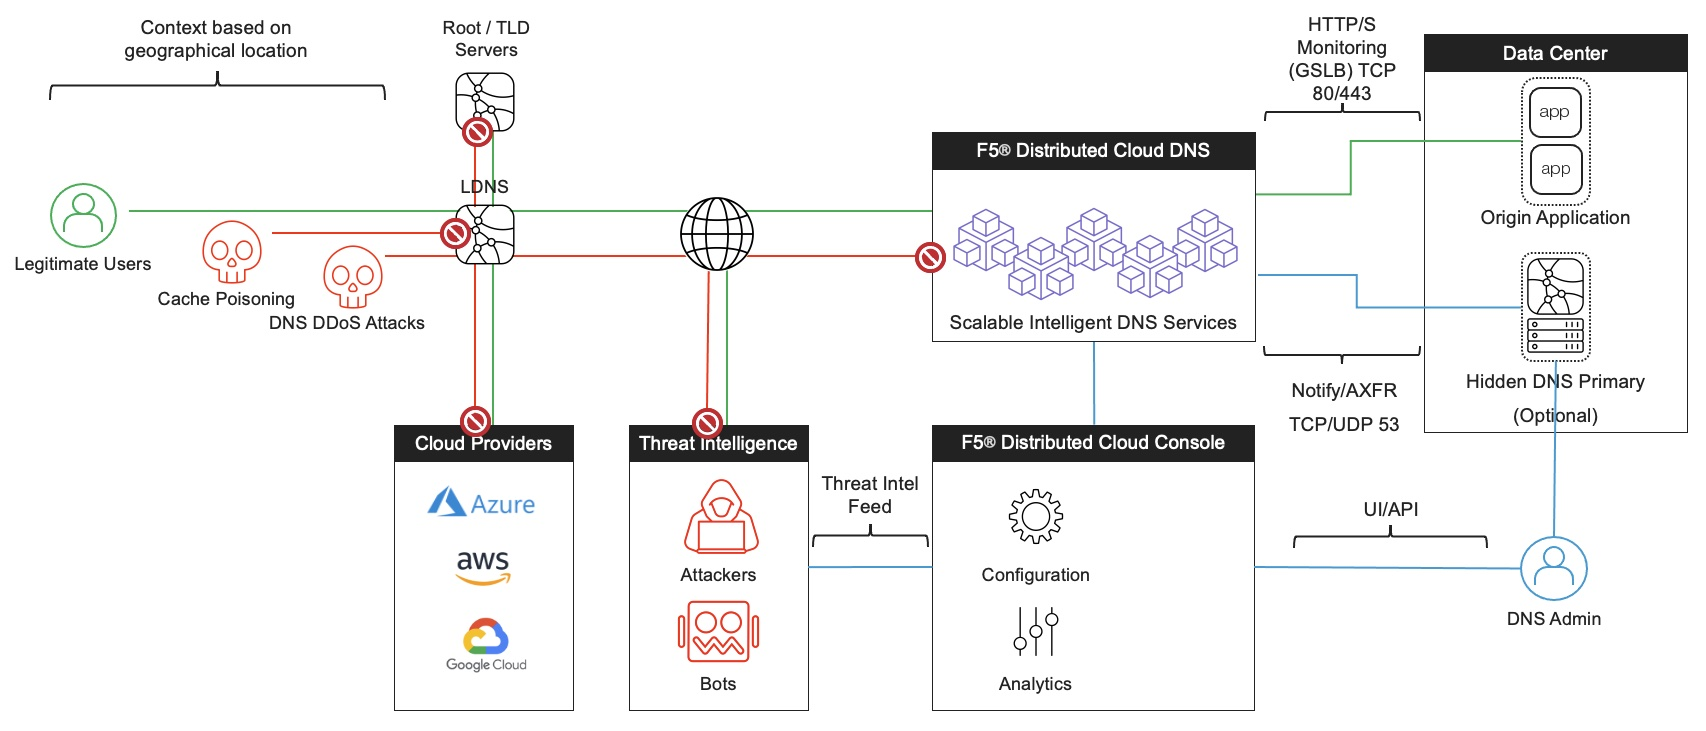
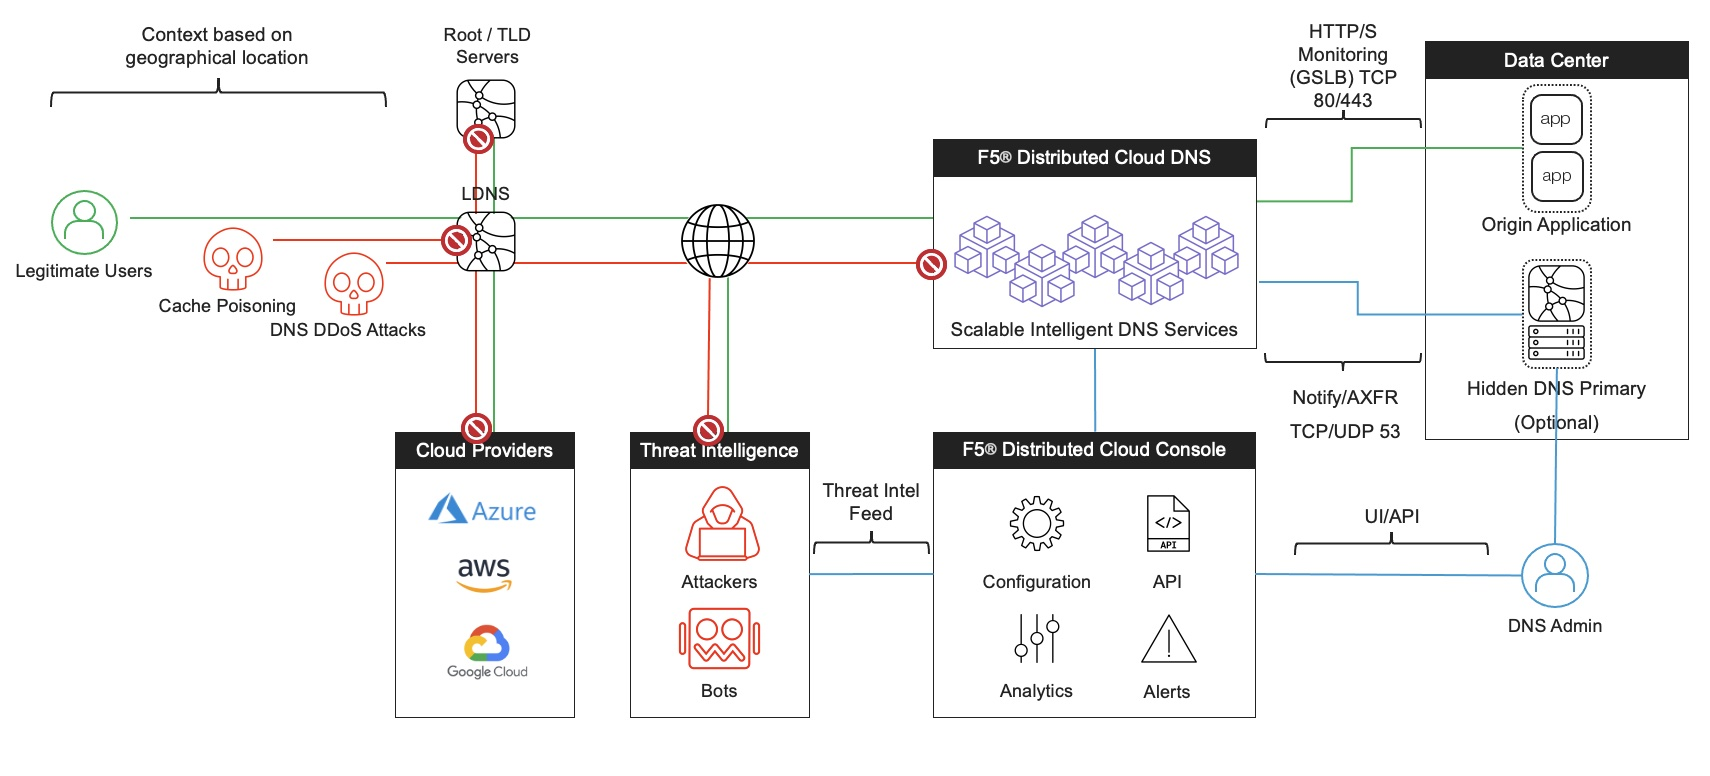
updated diagram and components

diff --git a/dns/readme.md b/dns/readme.md
@@ -33,7 +33,7 @@ This reference architecture provides guidelines for designing and implementing a
 ## DNS Services Are Critical to Availability
 When a user requests a web page, that request is passed to a local DNS server, which in turn communicates with the main DNS servers (DNS Root Server, Top-Level Domain Servers, Second-Level Domain Servers and so on). Everything works well until a traffic surge or an attacker floods the server with DNS query requests. If your main DNS server gets overloaded, it will stop responding, which can render your website unavailable.
 
-DNS failures account for 41 percent of web infrastructure downtime, so it's essential to keep your DNS available. According Gartner [^1] , organizations lose between $140,000 and $540,000 for every hour their services are down. Downtime negatively affects customers, can lead to loss of revenue, and can even affect employees trying to access corporate resources, such as email.
+DNS failures account for 41 percent of web infrastructure downtime, so it's essential to keep your DNS available. According Gartner [^1] , organisations lose between $140,000 and $540,000 for every hour their services are down. Downtime negatively affects customers, can lead to loss of revenue, and can even affect employees trying to access corporate resources, such as email.
 
 That's why the importance of a strong DNS foundation can’t be overstated. Without one, your customers may not be able to access your content and applications when they want to—and if they can't get what they want from you, they'll likely go elsewhere.
 
@@ -49,7 +49,7 @@ In addition, according to Google, 53 percent of visits to a mobile web sites are
 
 [^4]: https://www.thinkwithgoogle.com/consumer-insights/consumer-trends/mobile-site-load-time-statistics/ 
 
-Organizations are experiencing rapid growth in terms of applications as well as the volume of traffic accessing those applications. Plus, the web applications themselves are growing and continually becoming more complex. Every icon, URL, and piece of embedded content on a web page requires a DNS lookup. Simple smartphone apps can require numerous DNS queries just to load, but loading complex sites may require hundreds of DNS queries.
+Organisations are experiencing rapid growth in terms of applications as well as the volume of traffic accessing those applications. Plus, the web applications themselves are growing and continually becoming more complex. Every icon, URL, and piece of embedded content on a web page requires a DNS lookup. Simple smartphone apps can require numerous DNS queries just to load, but loading complex sites may require hundreds of DNS queries.
 
 
 ## Security Issues
@@ -60,7 +60,7 @@ A typical DNS server is capable of handling up to 150,000 DNS queries per second
 To address DNS surges and DNS DDoS attacks, companies add more DNS servers, which are not really needed during normal business operations. This costly solution also often requires manual intervention for changes. In addition, traditional DNS servers require frequent maintenance and patching, primarily for new vulnerabilities.
 
 ## The Traditional Solution
-When looking for DNS solutions, many organizations select BIND (Berkeley Internet Naming Daemon), the Internet's original DNS resolver. Installed on approximately 80 percent of the world's DNS servers, BIND is an open-source project maintained by Internet Systems Consortium (ISC). ISC is a non-profit organization with a for-profit consulting arm called DNS-CO, which offers 4 different levels of subscriptions and support services.
+When looking for DNS solutions, many organisations select BIND (Berkeley Internet Naming Daemon), the Internet's original DNS resolver. Installed on approximately 80 percent of the world's DNS servers, BIND is an open-source project maintained by Internet Systems Consortium (ISC). ISC is a non-profit organisation with a for-profit consulting arm called DNS-CO, which offers 4 different levels of subscriptions and support services.
 
 Despite its popularity, BIND requires significant maintenance multiple times a year primarily due to vulnerabilities, patches, and upgrades. It can be downloaded freely, but needs servers (an additional cost, including support contracts) and an operating system. In addition, BIND typically scales to only 50,000 responses per second (RPS), making it vulnerable to both legitimate and malicious DNS surges.
 
@@ -93,79 +93,100 @@ The DNS infrastructure consists of the following main components:
     - A stealth server that is a primary server for zone transfers. In this arrangement, the master name server that processes the updates is unavailable to general hosts on the Internet; it is not listed in the NS RRset[^6].  
 - Origin Applications
     - The endpoint[s] hosting the application identified by the FQDN.
-&nbsp;
-
-&nbsp;
 
 [^5]: '3.2.2. TYPE values' https://www.ietf.org/rfc/rfc1035.html
 [^6]: 'DNS Terminology' https://www.rfc-editor.org/rfc/rfc8499.html 
 
+<!-- Insert blank lines using &nbsp; followed by a blank line -->
 
-<!-- ![F5® Distributed Cloud DNS Referece Architecture Diagram](https://github.com/s-archer/reference-architectures/blob/main/dns/XC%20DNS%20Reference%20Architecture%20Diagrams.jpeg) -->
+&nbsp;
+
+&nbsp;
+
 ![F5® Distributed Cloud DNS Referece Architecture Diagram](XC%20DNS%20Reference%20Architecture%20Diagrams.jpeg)
 
 ## Scale on Demand
-F5® Distributed Cloud DNS hyperscales to 100 million RPS, which means that even large surges of DNS requests (including the malicious ones) won’t disrupt your content or affect the availability of critical applications. Your network administrators can rest easier, knowing that your site will respond to all DNS queries and remain available even during an attack. Your brand is protected, and your company can avoid an embarrassing front-page story.
+F5® Distributed Cloud DNS hyperscales to millions of RPS, which means that even large surges of DNS requests (including the malicious ones) won’t disrupt your content or affect the availability of critical applications. Your network administrators can rest easier, knowing that your site will respond to all DNS queries and remain available even during an attack. Your brand is protected, and your company can avoid an embarrassing front-page story.
 
 ## Enhanced Availability
-The F5® Intelligent DNS Scale reference architecture helps ensure that your applications and content are continuously available to your users. One of the most important pieces of this architecture is the specifically designed DNS Express query response feature in F5® Distributed Cloud DNS, which manages authoritative DNS queries by transferring zones from the primary DNS server to its own RAM.
+As a SaaS-based, cloud-delivered solution, Distributed Cloud DNS
+offers global auto-scaling, so you keep up with demand as the number of applications
+increases, traffic patterns change, and request volumes grow exponentially. Adjust DNS
+and security policies in real time and publish new apps with DNS instantaneously, all
+while paying only for what you use with no added overhead or costs.
 
-F5® Distributed Cloud DNS only has to open the DNS query packet once, as long as the request is for an address that’s in the zone that was transferred to DNS Express, simplifying the process and significantly improving performance and response times of your DNS architecture.
-
-With DNS Express, the individual core of each BIG-IP device can answer approximately 125,000 to 200,000 requests per second, scaling up to more than 50 million query RPS, greater than 12 times the capacity of a typical primary DNS server.
+F5® Distributed Cloud DNS helps ensure that your applications and content are continuously available to your users. Built-in redundancy makes your system available even with primary failures.
 
 ## DNS Security
-Each BIG-IP device is ICSA Labs Certified as a network firewall. By intelligently evaluating the reputation of Internet hosts, the BIG-IP device can prevent attackers from knocking your DNS offline with a DNS DDoS attack, stealing data, compromising corporate resources, or otherwise disrupting your business. 
+High-performance applications must be kept secure. That means ensuring
+not only uptime and availability but also protection from exploitation. With built-in
+DDoS protection, automatic failover, TSIG authentication, and DNSSEC capabilities,
+this service helps protect your applications from DDoS attacks and other threats.
 
-In addition, DNSSEC can protect your DNS infrastructure, including cloud deployments, from cache poisoning attacks and domain hijacks. With DNSSEC support, you can digitally sign and support your DNS query with encrypted responses, enabling the resolver to determine the authenticity of the response and preventing DNS hijacking and cache poisoning. The F5® IP Intelligence service enhances your overall security by denying access to IP addresses known to be infected with malware, in contact with malware distribution points, and with poor reputations.
+By intelligently evaluating the reputation of Internet hosts, F5® Distributed Cloud DNS can prevent attackers from knocking your DNS offline with a DNS DDoS attack, stealing data, compromising corporate resources, or otherwise disrupting your business. 
+
+In addition, DNSSEC can protect your DNS infrastructure, including cloud deployments, from cache poisoning attacks and domain hijacks. With DNSSEC support, you can digitally sign and support your DNS query with encrypted responses, enabling the resolver to determine the authenticity of the response and preventing DNS hijacking and cache poisoning. 
 
 ## DNS Services at the Edge
-The F5® Intelligent DNS Scale reference architecture also helps keep your content and applications available by responding to DNS queries from the edge of the network, rather than from deep within your critical infrastructure. When you offload DNS responses to the BIG-IP platform, requests don’t reach the back end of your network, which greatly increases your ability to scale and respond to DNS surges along with protecting your DNS infrastructure.
+F5® Distributed Cloud DNS helps keep your content and applications available by responding to DNS queries from the edge of the network, closer to your customers, and your employees,  rather than from deep within your critical infrastructure. When you offload DNS responses to F5® Distributed Cloud Platform, requests don’t reach the back end of your network, which greatly increases your ability to scale and respond to DNS surges along with protecting your DNS infrastructure.
 
-By increasing the speed, availability, scalability, and security of your DNS infrastructure, the F5® Intelligent DNS Scale reference architecture makes sure your customers, and your employees, can access your critical web, application, and database services whenever they need them.
+By increasing the speed, availability, scalability, and security of your DNS infrastructure, the F5® Distributed Cloud DNS makes sure your customers, and your employees, can access your critical web, application, and database services whenever they need them.
 
 ## Distributed DNS
-This also applies to cloud deployments or infrastructures where DNS is distributed. Organizations can replicate their high-performance DNS infrastructure in almost any environment. They may have cloud DNS for disaster recovery/business continuity, or even a cloud DNS service with signed DNSSEC zones. F5® DNS Services enhanced AXFR support offers zone transfers from a BIG-IP device to any DNS service, enabling organizations to replicate DNS in physical, virtual, and cloud environments. The DNS replication service can be sent to other BIG-IP devices or other general DNS servers in data centers or clouds that are closest to the users.
+Organisations can send users to a site that will give them the best experience. F5® Distributed Cloud DNS services use a range of load balancing methods and intelligent monitoring for each specific app and user. Traffic is routed according to your business policies, as well as current network and user conditions. F5® Distributed Cloud DNS services includes an accurate, granular geolocation database, giving you control of traffic distribution based on user location.
 
-In addition, organizations can send users to a site that will give them the best experience. F5® Distributed Cloud DNS services use a range of load balancing methods and intelligent monitoring for each specific app and user. Traffic is routed according to your business policies, as well as current network and user conditions. F5® Distributed Cloud DNS services includes an accurate, granular geolocation database, giving you control of traffic distribution based on user location.
-
+In addition, F5® Distributed Cloud DNS Services AXFR supports automatic zone transfers from any DNS service, enabling organisations to replicate DNS in physical, virtual, and cloud environments. 
 
 # F5® Distributed Cloud DNS Services
 F5® Distributed Cloud DNS is a global DNS solution, providing name services at the very edge of your service delivery and access networks. By employing geographic location services, it can direct users to the best service delivery data center based on their physical location.
 
 F5® Distributed Cloud DNS provides the following name services:
 
-DNS services at the edge of the network for all internal and external services.
-Geolocation services for pinpoint application or service delivery accuracy based on location of the mobile user.
-The IP Intelligence service safeguards infrastructures by detecting and stopping access from IP addresses associated with malicious activity.
-A single point of control for management of all global and local name services.
-Additional BIG-IP intelligent services solutions such as global application delivery, policy enforcement, NAT64 and DNS64 translation, health monitors, and the F5® scripting language, iRules.
-Support for global DNS services
-Integration with DNS iRules for granular DNS decisions and name service delivery.
-Support for service provider–specific protocols such as ENUM requests for SIP transactions.
-BIG-IP LTM and DNS Services
-Within the data center, BIG-IP Local Traffic Manager (LTM) can ensure that your applications and content remain highly available by creating a fault-tolerant architecture from the mobile edge through to the service. In addition to providing high availability, BIG-IP LTM also supports service provider–specific applications such as load balancing ENUM requests for SIP transactions.
+- DNS services at the edge of the network for all external services.
+- Geolocation services for pinpoint application or service delivery accuracy based on the location of the mobile user.
+- The Threat Intelligence service safeguards infrastructures by detecting and stopping access from IP addresses associated with malicious activity.
+- A single point of control for management of all global and local name services.
+- Support for global DNS services
 
-BIG-IP LTM solutions for naming services include:
-
-Integration with F5® Distributed Cloud DNS to extend rich naming services into the local data center and services network.
-Load balancing support for both local DNS and recursive DNS.
-Support for service provider–specific protocols such as ENUM requests for SIP transactions.
-Transparent health monitors to evaluate service health before sending users to the service. BIG-IP LTM can relay health information back to F5® Distributed Cloud DNS to bring application awareness to the edge of the SDN.
-Integration with iRules for granular DNS decisions and name service delivery.
 
 ## Deploying a Complete Service Delivery Infrastructure
-The F5® Intelligent DNS Scale reference architecture adjusts for high-availability and high-volume applications while simultaneously supporting millions of user requests per second. They work together with other BIG-IP service delivery features, such as the iRules scripting language, transparent application monitoring, , and other IP-related services to create a complete service delivery infrastructure: the F5® Service Delivery Network. Seamless scale and flexibility is achieved by leveraging the intelligent service delivery platform common to all BIG-IP devices.
+F5® Distributed Cloud DNS enables high-availability and high-volume applications while simultaneously supporting millions of user requests per second. It works seamlessly with the suite of F5® Distributed Cloud Application Delivery and Application Security SaaS services to create a complete application delivery infrastructure:
+
+- Security
+    - DDoS Mitigation
+    - Web Application Firewall (WAF)
+    - Bot Defense
+    - API Security
+    - WAAP (a combination of the four previous services)
+    - Application Infrastructure Protection (CWPP)
+    - Client-Side Defense
+    - Aggregator Management
+- Fraud and Risk
+    - Account Protection
+    - Authentication Intelligence
+- Multi-Cloud Networking
+    - Load-Balancer and K8s Gateway
+    - Multi-Cloud Transit
+    - Global Network
+    - Private Link
+- Performance and Reliability
+    - CDN 
+    - Observability
 
 ## Conclusion
-By using the F5® Intelligent DNS Scale reference architecture, organizations can:
+By using F5® Distributed Cloud DNS, organisations can:
 
-Increase the speed, availability, scalability, and security of their DNS infrastructure.
-Reduce complexity and cost by eliminating unnecessary additional DNS servers.
-Enjoy the peace of mind that comes with knowing their site will respond to all DNS requests.
-The F5® Intelligent DNS Scale reference architecture is an end-to-end DNS delivery solution that improves web performance by reducing DNS latency, protects your web properties and brand reputation by mitigating DNS DDoS attacks, reduces data center costs by consolidating DNS infrastructure.  Most importantly, it directs your customers to the best performing components for optimal application and service delivery.
+- Deploy and deliver primary DNS in minutes. Configure and provision primary and secondary DNS inminutes, powered by a cloudbased, globally distributed
+anycast network.
+- Accelerate release velocity.  Integrate DNS into CI/CD pipelines using REST-based declarative APIs.
+- Maintain high availability.  Redundancy keeps your system available even with primary failures.
+- Add resilience to your existing DNS infrastructure.  Ensure high availability of your DNS environments with seamless failover to F5 Distributed Cloud DNS.
+- Scale instantly.  Automatically scale to respond to large query volumes.
+- Secure applications.  Prevent distributed denialof-service (DDoS) attacks or manipulation of domain responses with built-in protection.
+- Get utility-based pricing.  Pay only for what you use.  Pricing is based on the number of zones, and options include an Individual Plan, Teams Plan, and Organization Plan, with a free monthly version available. 
 
-The F5® Intelligent DNS Scale reference architecture also delivers the peace of mind that comes with knowing that your web applications will respond to all DNS queries—keeping your content and applications available to your users wherever and whenever they want to access them.
+DevOps-friendly F5® Distributed Cloud DNS delivers the high performance, security, and global resiliency—across clouds, geographies, and availability zones—that your users expect from your apps in today’s demanding marketplace.
 
-F5® Distributed Cloud DNS:tfd
-https://f5cloud.zendesk.com/hc/en-us/sections/7057223802519-DNS-Management
+F5® Distributed Cloud DNS reference architecture also delivers the peace of mind that comes with knowing that your web applications will respond to all DNS queries—keeping your content and applications available to your users wherever and whenever they want to access them.
+
+![F5® Distributed Cloud DNS](https://www.f5.com/cloud/products/dns)
